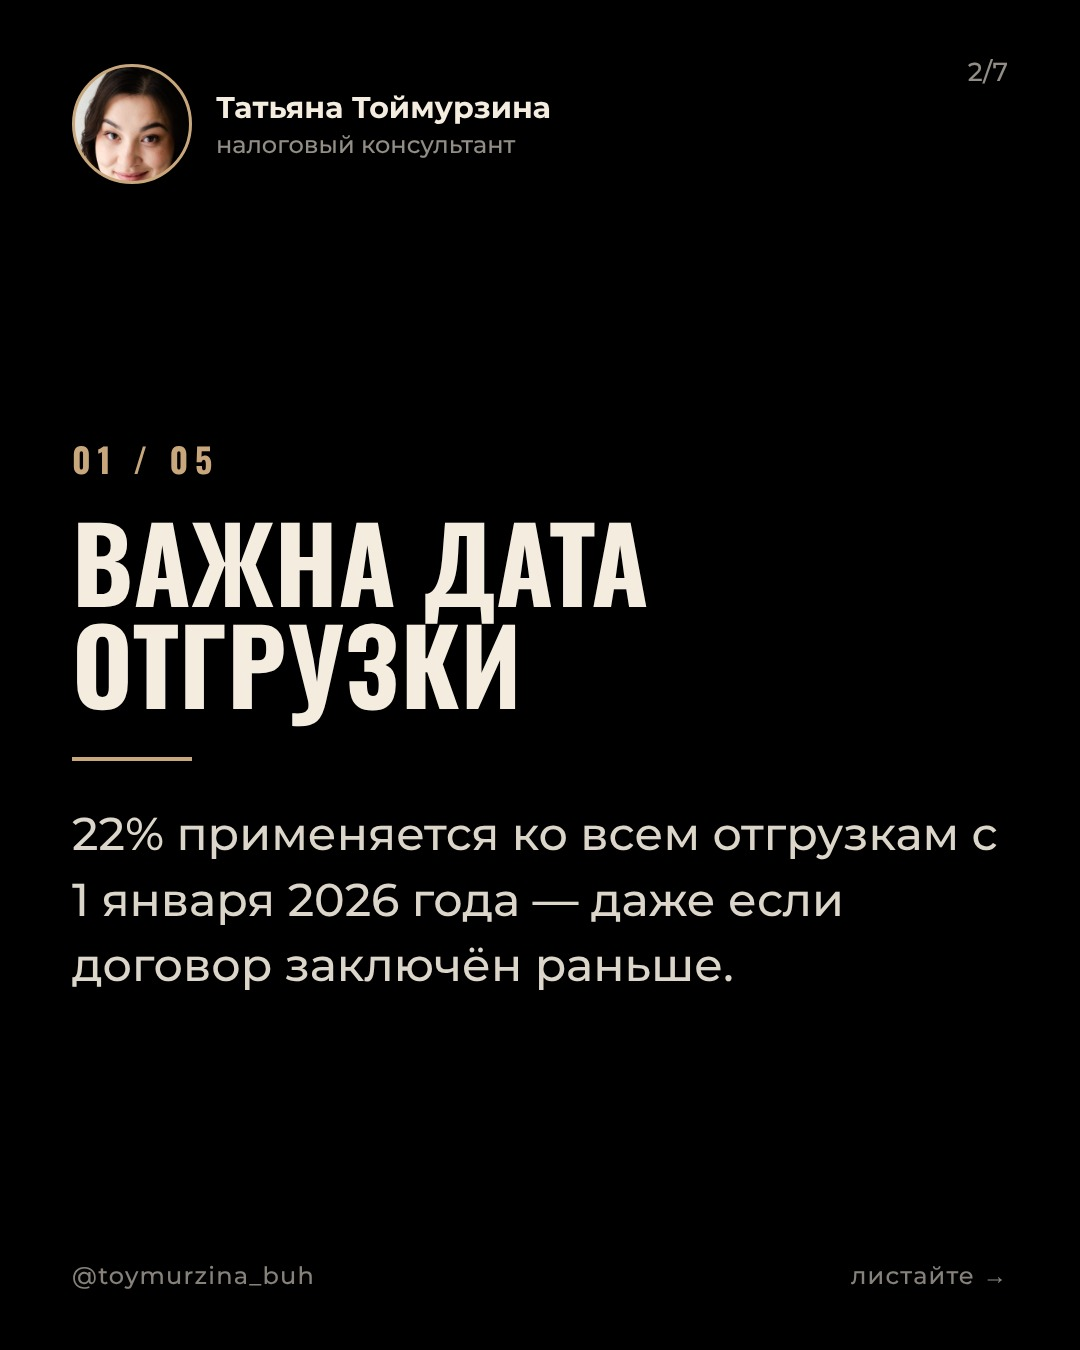
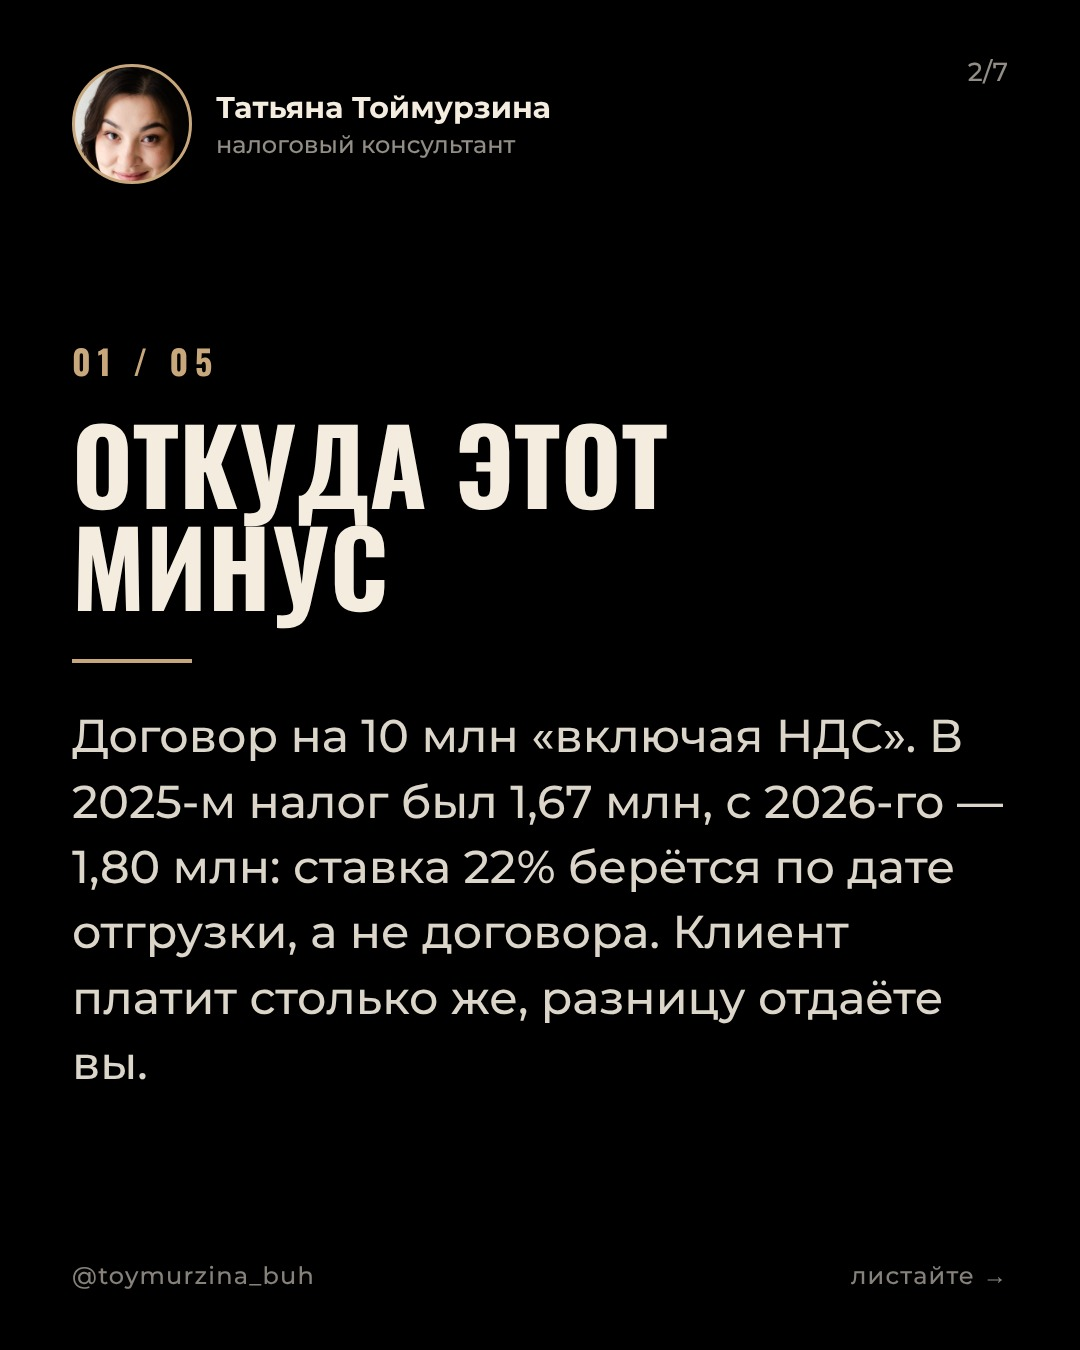
Карусель НДС 22%: заход через боль (обложка + расчёт)
Claude-Session: https://claude.ai/code/session_01Rsqfjaxu59fiZguhjD3EQz

diff --git a/content/carousels_g1004.py b/content/carousels_g1004.py
@@ -3,8 +3,8 @@ CAROUSELS = [{'date': '2026-10-04',
   'cta': 'ПОДРОБНЕЕ В ТГ',
   'cover_cta': 'Подробнее — в Телеграм',
   'title': 'НДС 22% и договоры, заключённые до 2026 года',
-  'slides': [('НДС 22%', 'Договор подписан в 2025-м, а лишние 2% НДС платите вы', 'и узнаёте об этом из акта сверки'),
-             ('01', 'Важна дата отгрузки', '22% применяется ко всем отгрузкам с 1 января 2026 года — даже если договор заключён раньше.'),
+  'slides': [('договоры до 2026 года', 'Цена та же. НДС вырос. Разницу платите вы', '≈136 000 ₽ с каждых 10 млн выручки — из вашей прибыли'),
+             ('01', 'Откуда этот минус', 'Договор на 10 млн «включая НДС». В 2025-м налог был 1,67 млн, с 2026-го — 1,80 млн: ставка 22% берётся по дате отгрузки, а не договора. Клиент платит столько же, разницу отдаёте вы.'),
              ('02', 'Цена «включая НДС»', 'Цена фиксирована, условия о пересмотре нет? Тогда рост ставки съедает вашу маржу, а не бюджет покупателя.'),
              ('03', 'Цена «плюс НДС»', 'Если НДС начисляется сверху «по ставке, установленной законом», разницу в 2% можно предъявить покупателю.'),
              ('04', 'Авансы 2025 года', 'Предоплату получили в 2025-м, а отгрузили в 2026-м? Отгрузка — по 22%. Заранее договоритесь, кто доплачивает разницу.'),
